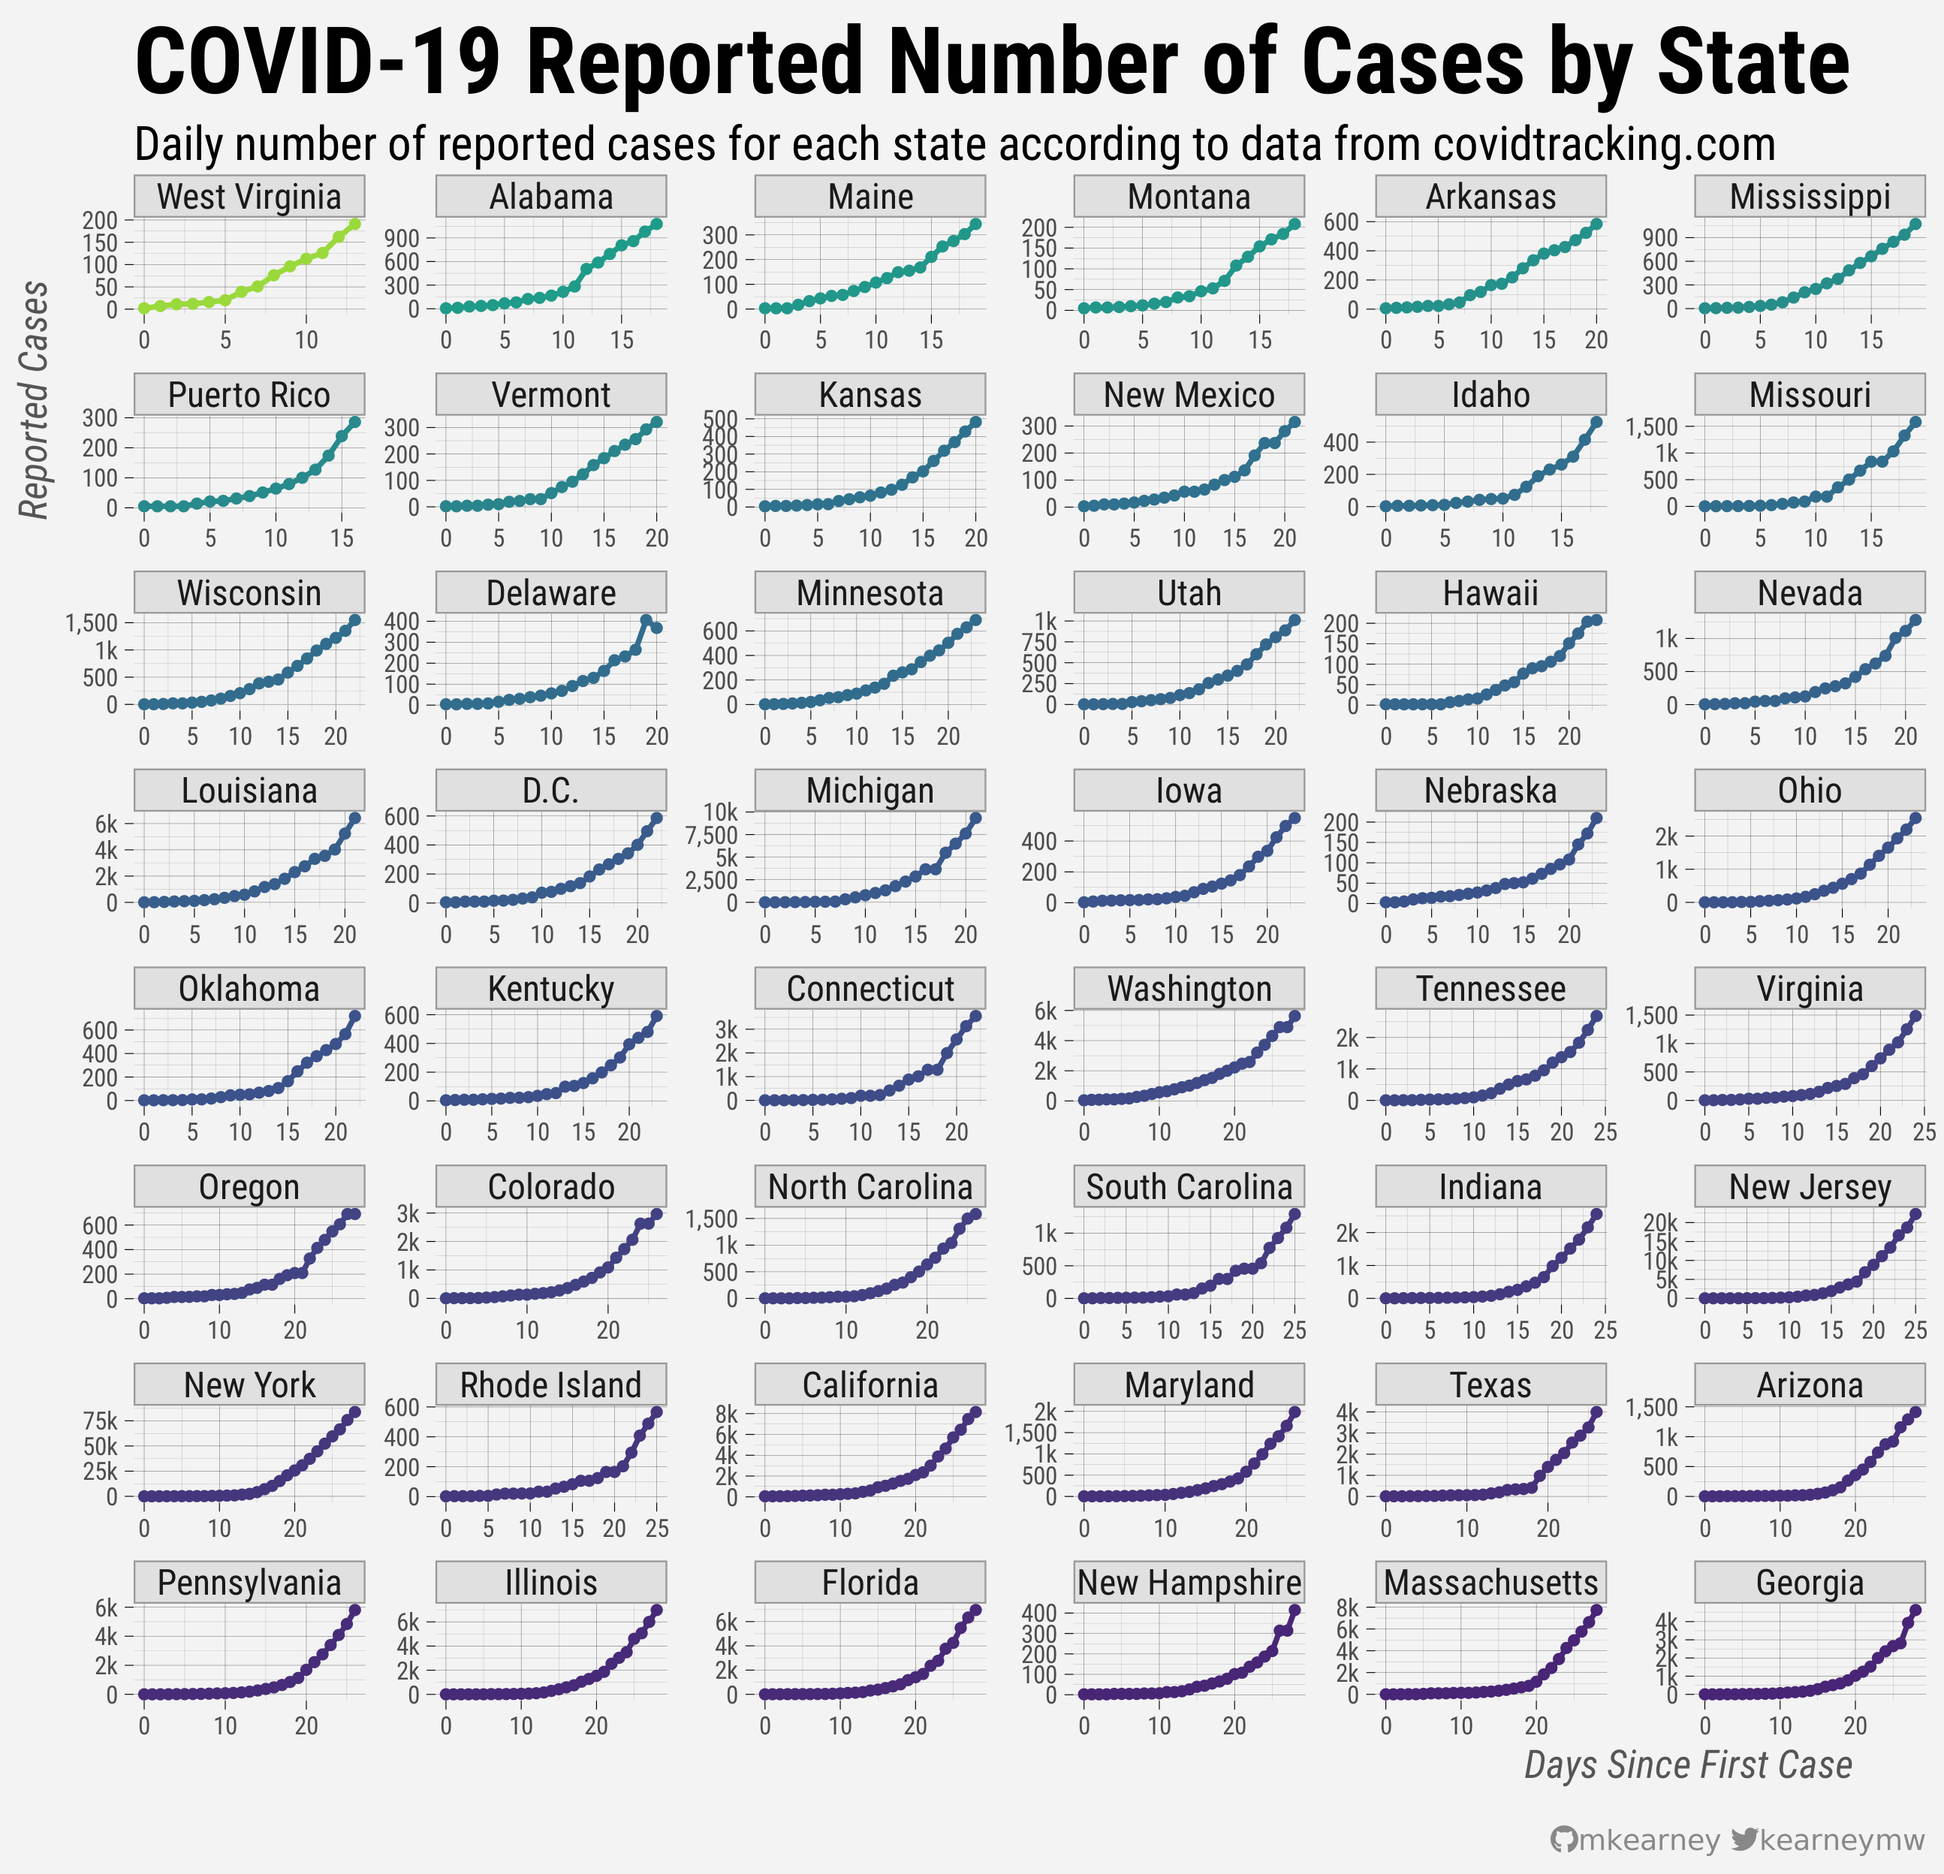
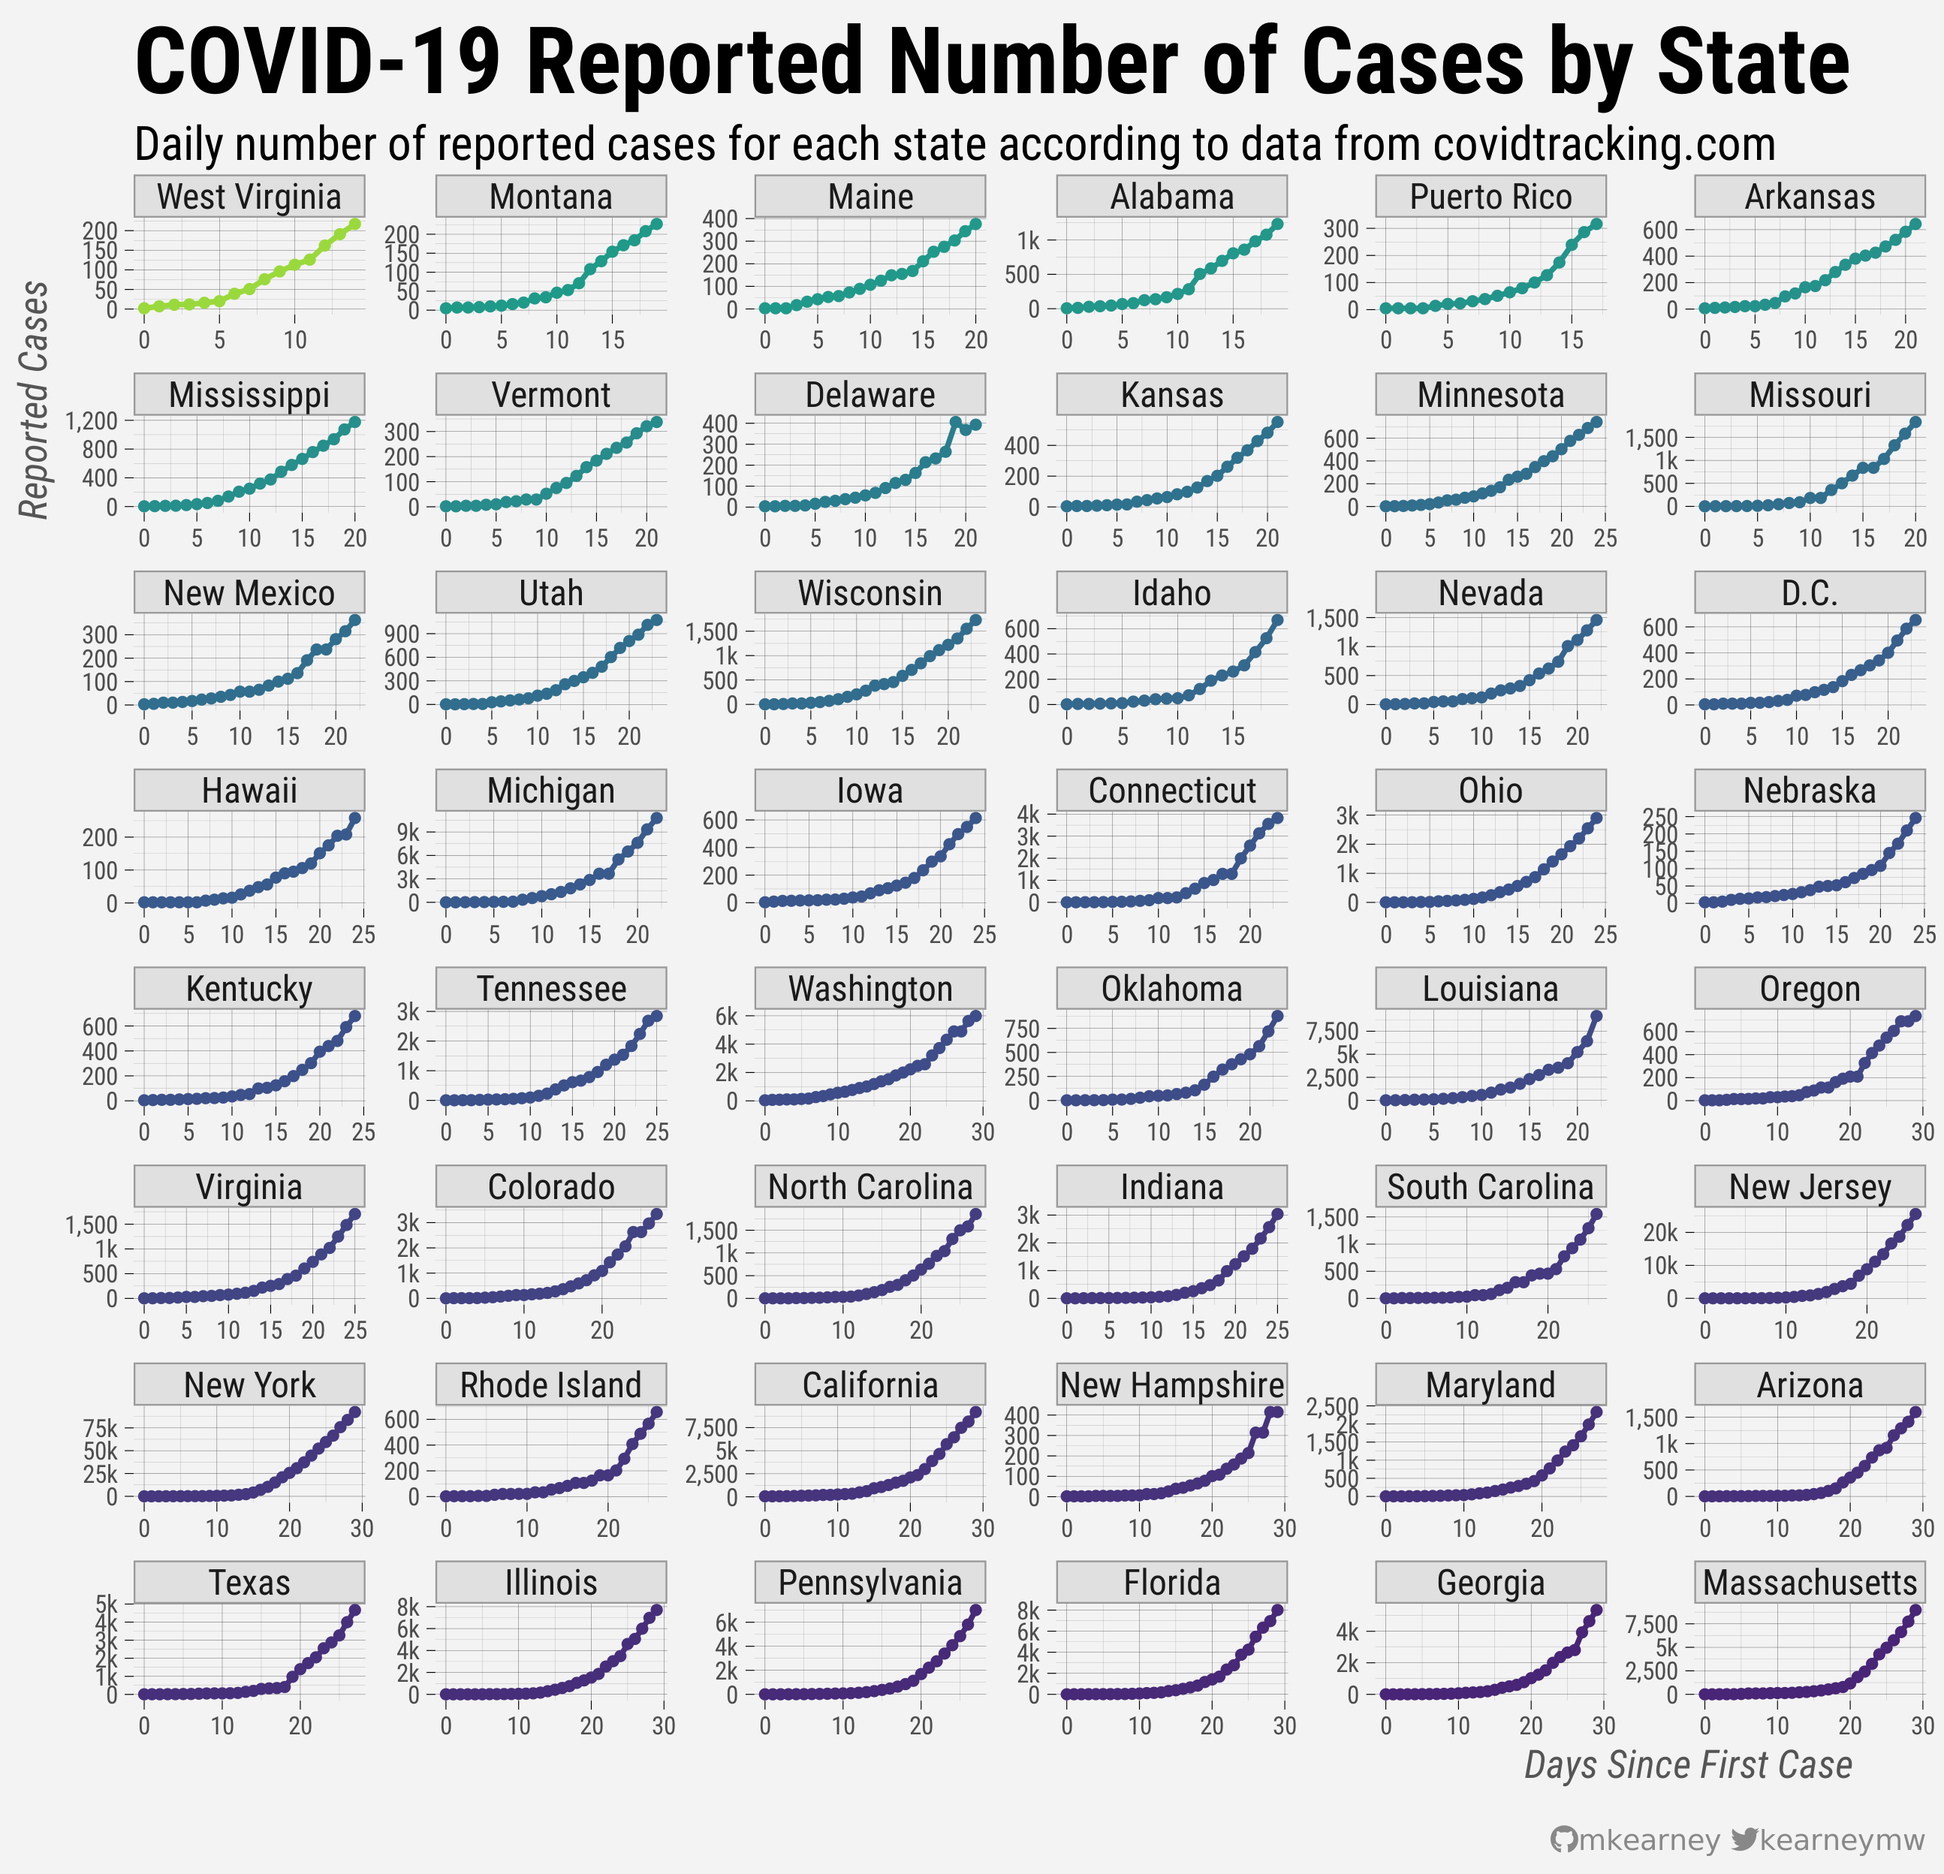
daily cron update

diff --git a/README.md b/README.md
@@ -40,7 +40,7 @@ grouped by similar endpoints and included below.
     #> # A tibble: 1 x 18
     #>   positive negative pending hospitalized_cu… hospitalized_cu… in_icu_currently
     #>      <int>    <int>   <int>            <int>            <int>            <int>
-    #> 1   214039   965550   61760            16513            31501             3837
+    #> 1   239009  1028649   62119            17176            32630             4264
     #> # … with 12 more variables: in_icu_cumulative <int>,
     #> #   on_ventilator_currently <int>, on_ventilator_cumulative <int>,
     #> #   recovered <int>, hash <chr>, last_modified <dttm>, death <int>,
@@ -88,15 +88,15 @@ grouped by similar endpoints and included below.
     #>    state positive positive_score negative_score negative_regula…
     #>    <chr>    <int>          <int>          <int>            <int>
     #>  1 AK         143              1              1                1
-    #>  2 AL        1116              1              1                0
-    #>  3 AR         624              1              1                1
-    #>  4 AZ        1413              1              1                0
-    #>  5 CA        8155              1              1                1
+    #>  2 AL        1233              1              1                0
+    #>  3 AR         643              1              1                1
+    #>  4 AZ        1598              1              1                0
+    #>  5 CA        9191              1              1                1
     #>  6 CO        3342              1              1                1
-    #>  7 CT        3557              1              1                1
+    #>  7 CT        3824              1              1                1
     #>  8 DC         653              1              1                1
-    #>  9 DE         368              1              1                1
-    #> 10 FL        7559              1              1                1
+    #>  9 DE         393              1              1                1
+    #> 10 FL        8010              1              1                1
     #> # … with 46 more rows, and 24 more variables: commercial_score <int>,
     #> #   grade <chr>, score <int>, negative <int>, pending <int>,
     #> #   hospitalized_currently <int>, hospitalized_cumulative <int>,
@@ -114,20 +114,20 @@ grouped by similar endpoints and included below.
     
     ``` r
     covid19_states_daily()
-    #> # A tibble: 1,485 x 25
+    #> # A tibble: 1,541 x 25
     #>    date       state positive negative pending hospitalized_cu… hospitalized_cu…
     #>    <date>     <chr>    <int>    <int>   <int>            <int>            <int>
-    #>  1 2020-04-01 AK         133     4470      NA               NA                9
-    #>  2 2020-04-01 AL        1077     6697      NA               NA               NA
-    #>  3 2020-04-01 AR         584     7354      NA               56               90
-    #>  4 2020-04-01 AS           0       20       6               NA               NA
-    #>  5 2020-04-01 AZ        1413    19645      NA               NA              149
-    #>  6 2020-04-01 CA        8155    21772   57400             1855             1855
-    #>  7 2020-04-01 CO        2966    13883      NA               NA              509
-    #>  8 2020-04-01 CT        3557    13043      NA              766              766
-    #>  9 2020-04-01 DC         586     3262       2               NA               NA
-    #> 10 2020-04-01 DE         368     4015      NA               51               57
-    #> # … with 1,475 more rows, and 18 more variables: in_icu_currently <int>,
+    #>  1 2020-04-02 AK         143     4879      NA               NA                9
+    #>  2 2020-04-02 AL        1233     7503      NA               NA               NA
+    #>  3 2020-04-02 AR         643     7880      NA               66               NA
+    #>  4 2020-04-02 AS           0       20       6               NA               NA
+    #>  5 2020-04-02 AZ        1598    21111      NA               NA              228
+    #>  6 2020-04-02 CA        9191    23809   59500             1922               NA
+    #>  7 2020-04-02 CO        3342    15303      NA               NA              620
+    #>  8 2020-04-02 CT        3824    14476      NA              827               NA
+    #>  9 2020-04-02 DC         653     4417      NA               NA               NA
+    #> 10 2020-04-02 DE         393     4566      NA               56               NA
+    #> # … with 1,531 more rows, and 18 more variables: in_icu_currently <int>,
     #> #   in_icu_cumulative <int>, on_ventilator_currently <int>,
     #> #   on_ventilator_cumulative <int>, recovered <int>, hash <chr>,
     #> #   date_checked <dttm>, death <int>, hospitalized <int>, total <int>,
